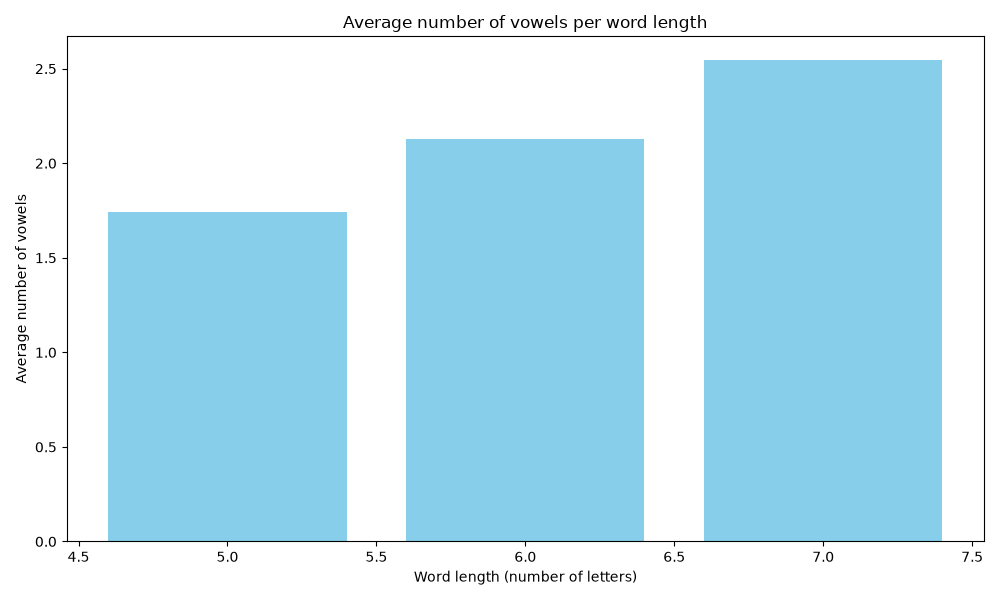
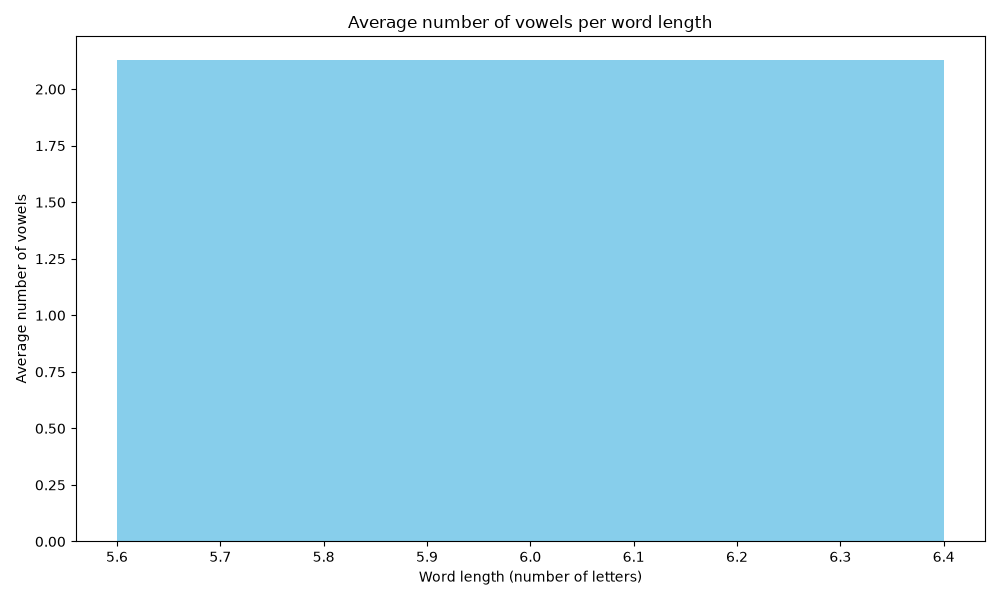
created an extra file for tables and charts and updated them

diff --git a/src/evaluate.py b/src/evaluate.py
@@ -144,7 +144,7 @@ def analyze_game_data(save_to_file=False):  # analysis function
     # Save analyses as separate CSV files
     if save_to_file:
 
-        data_folder = Path(__file__).resolve().parent.parent / "data"
+        data_folder = Path(__file__).resolve().parent.parent / "data" / "tables_and_charts"
 
         for name, result in results.items():
 
@@ -159,8 +159,8 @@ def analyze_game_data(save_to_file=False):  # analysis function
 
     return results
 
-#if __name__ == "__main__":
-  # analyze_game_data(save_to_file=True)
+if __name__ == "__main__":
+   analyze_game_data(save_to_file=True)
 
 def top_5_first_letters(file):
     words = bd.read_pickle(file) #load words
@@ -196,8 +196,9 @@ def top_5_first_letters(file):
 
     return top5
 
-#print(top_5_first_letters("../data/CMUdict_5_to_7_without_propn.pkl")) #prints top 5 from wordle dick
-#print(top_5_first_letters("../data/CMUdict_5_to_7_without_propn.pkl"))
+if __name__ == "__main__":
+    print(top_5_first_letters("../data/CMUdict_5_to_7_without_propn.pkl")) #prints top 5 from wordle dick
+    print(top_5_first_letters("../data/CMUdict_5_to_7_without_propn.pkl"))
 
 def avg_syllables_by_length_with_plot(file):
 
@@ -231,8 +232,8 @@ def avg_syllables_by_length_with_plot(file):
     print("Diagramm 'avg_syllables_by_length.png' wurde erstellt.")
     return result
 
-#if __name__ == "__main__":
-    #print(avg_syllables_by_length_with_plot("../data/propertie_dict.pkl"))
+if __name__ == "__main__":
+    print(avg_syllables_by_length_with_plot("../data/propertie_dict.pkl"))
 
 def avg_vowels_with_plot(file, length=None):
 
@@ -271,8 +272,9 @@ def avg_vowels_with_plot(file, length=None):
     print("Diagramm 'avg_vowels_by_length.png' wurde erstellt.")
     return result
 
-#print(avg_vowels_with_plot("../data/propertie_dict.pkl"))
-#print(avg_vowels_with_plot("../data/propertie_dict.pkl", length=6)) #if we want to look at a spezific length
+if __name__ == "__main__":
+    print(avg_vowels_with_plot("../data/propertie_dict.pkl"))
+    print(avg_vowels_with_plot("../data/propertie_dict.pkl", length=6)) #if we want to look at a spezific length
 
 def top_10_words_with_plot(file):
 
@@ -310,4 +312,5 @@ def top_10_words_with_plot(file):
     print("Diagramm 'top10_words.png' wurde erstellt.")
     return top10
 
-#print(top_10_words_with_plot("../data/propertie_dict.pkl"))
+if __name__ == "__main__":
+    print(top_10_words_with_plot("../data/propertie_dict.pkl"))

diff --git a/src/process_and_extract_data.py b/src/process_and_extract_data.py
@@ -23,7 +23,7 @@ final_lemma = desired_length # the words we want to get the properties of, these
 
 #create a dict of words ans their properties
 word_length = epf.number_of_letters(final_lemma) #dict of word and its length
-word_frequenzies = epf.extract_frequenzy("../data/first_three_chapters.txt", final_lemma) #dict of word and its frequenzy
+word_frequenzies = epf.extract_frequenzy("../data/extracted_chapters.txt", final_lemma) #dict of word and its frequenzy
 word_syllables_count = epf.extract_syllables(final_lemma) #dict of words and theircounts of syllables
 properties_dict_list = [word_length, pos_tags, word_frequenzies, word_syllables_count] #create a list to automaticly extract the properties from the dicts
 propertie_dict = bd.create_propertie_dict(final_lemma, properties_dict_list) #create the final dict of words and their properties

diff --git a/src/text_processing.py b/src/text_processing.py
@@ -21,8 +21,8 @@ def save_text(path, content):      #save text in a file
 def run_extraction(count_of_chapters: int):   #the whole extraction Prozess
   raw = load_text("../data/MOBY-DICK; or, THE WHALE.txt")
   chapters = extract_chapters(raw, count_of_chapters )
-  save_text("../data/first_three_chapters.txt", chapters)
-  return "../data/first_three_chapters.txt"
+  save_text("../data/extracted_chapters.txt", chapters) #we store it in a file to hav a look on it
+  return "../data/extracted_chapters.txt"
 
 #if __name__ == "__main__":  #starts automaticly running
 # run_extraction()
